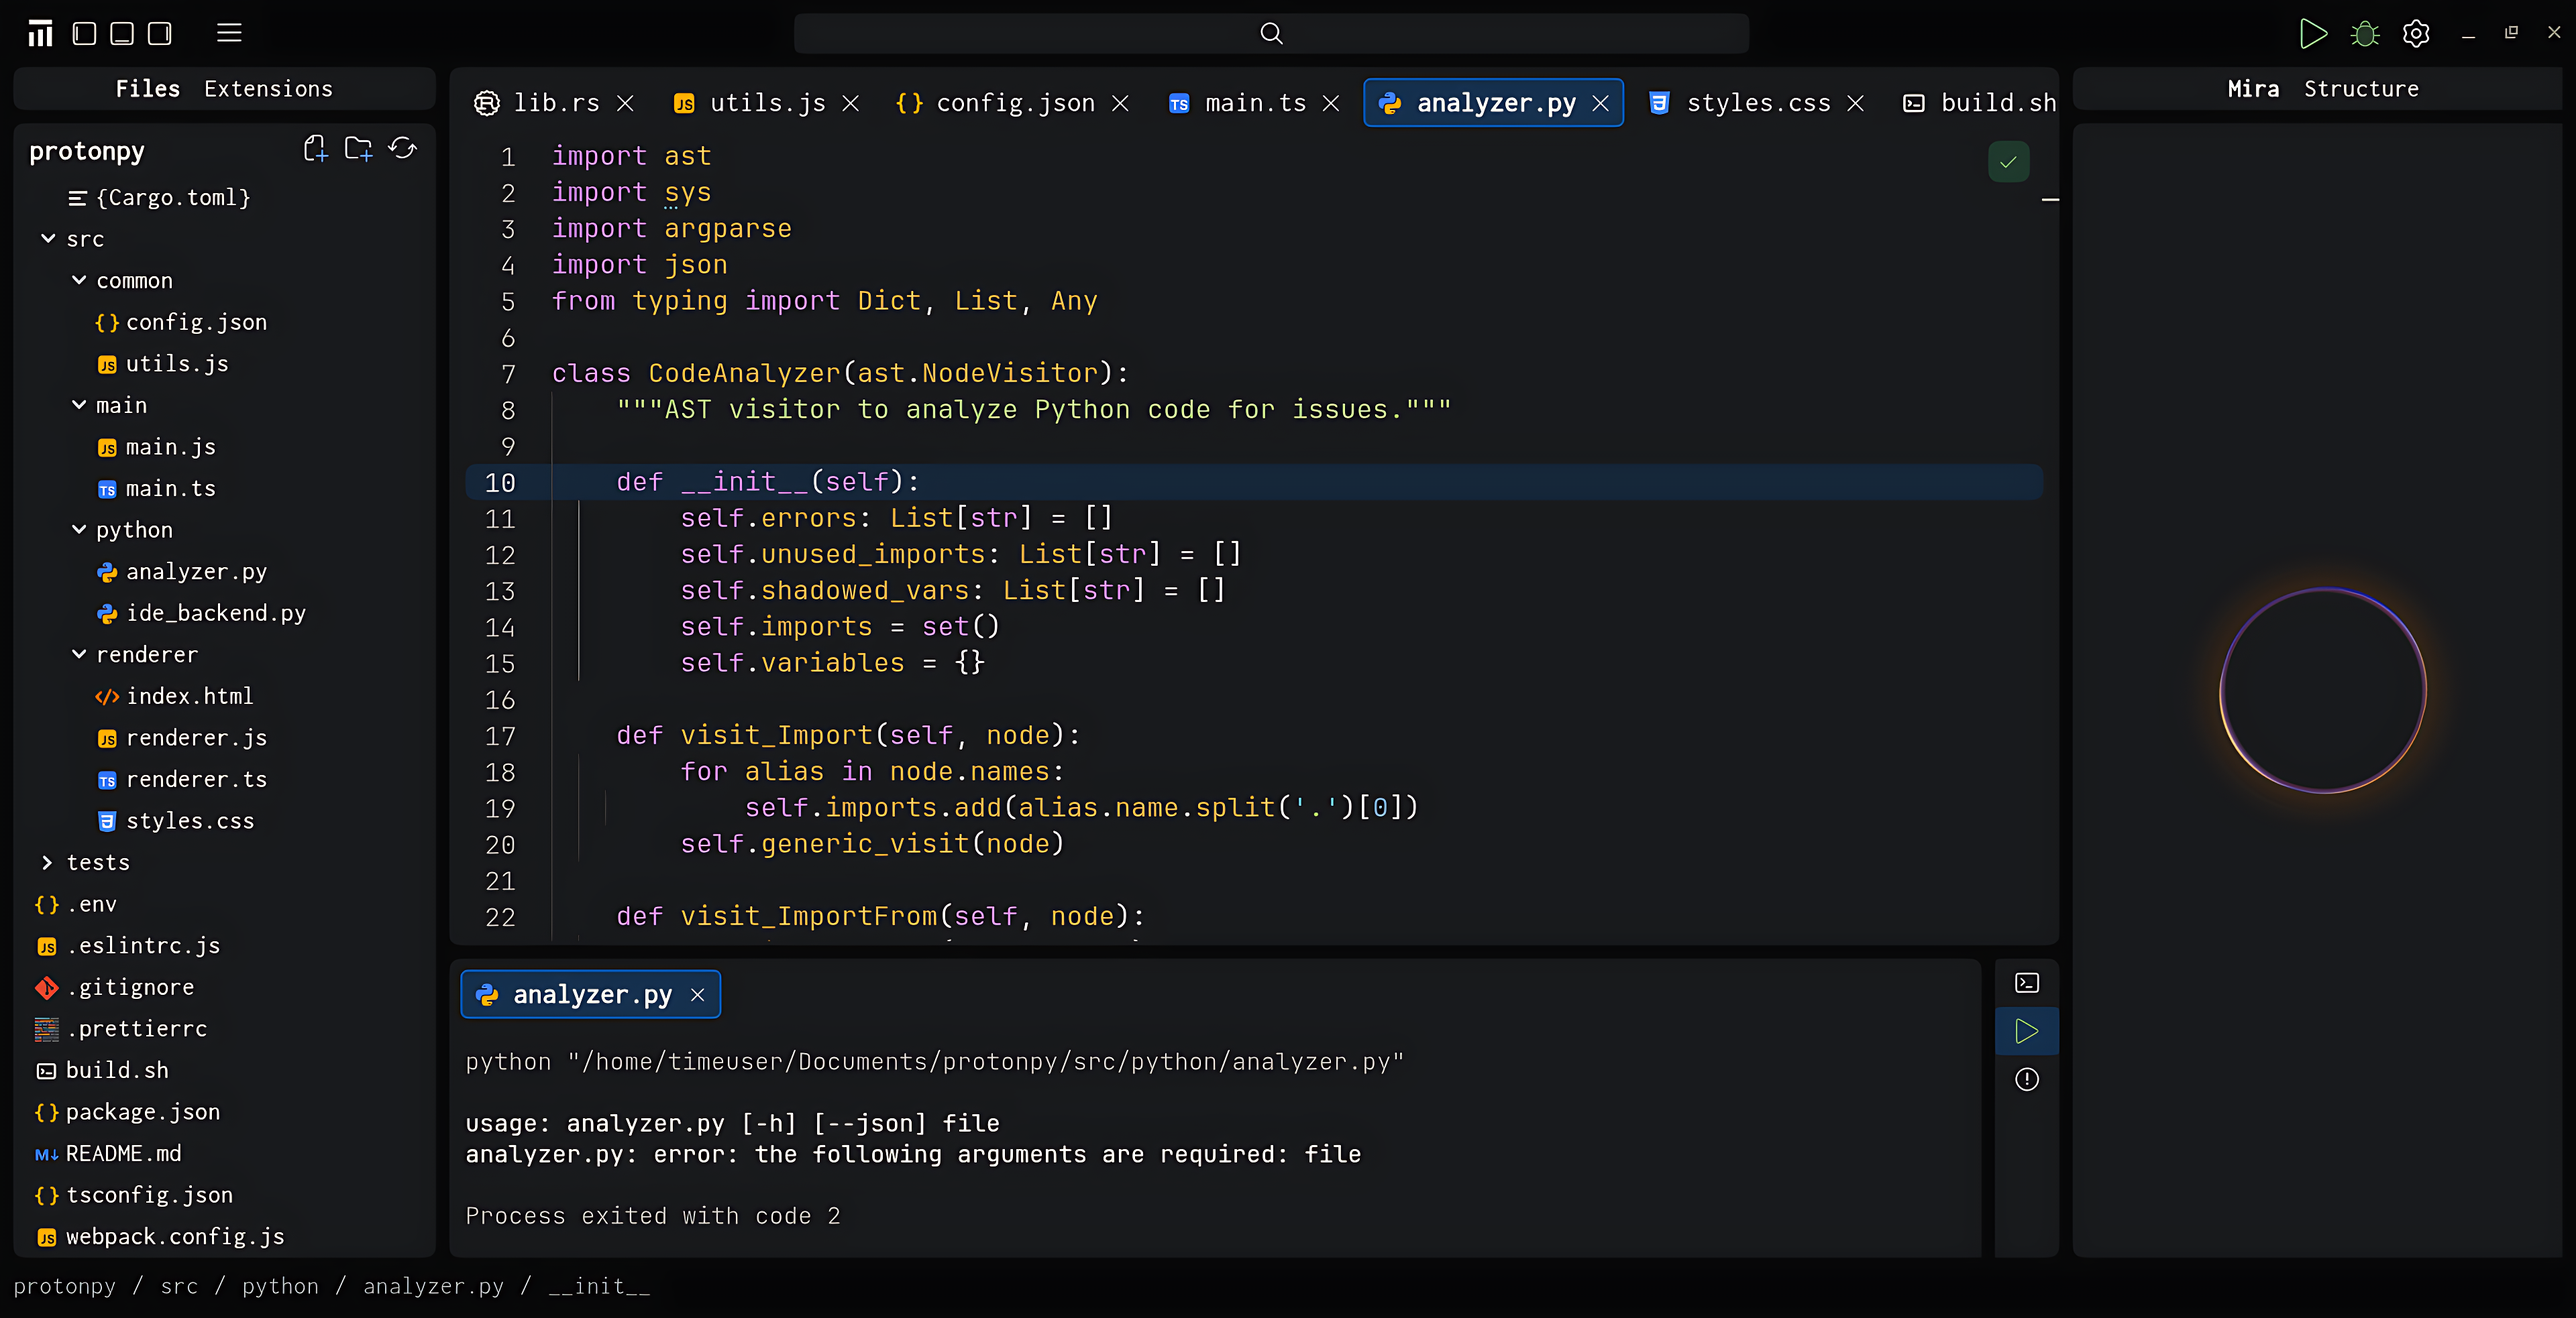
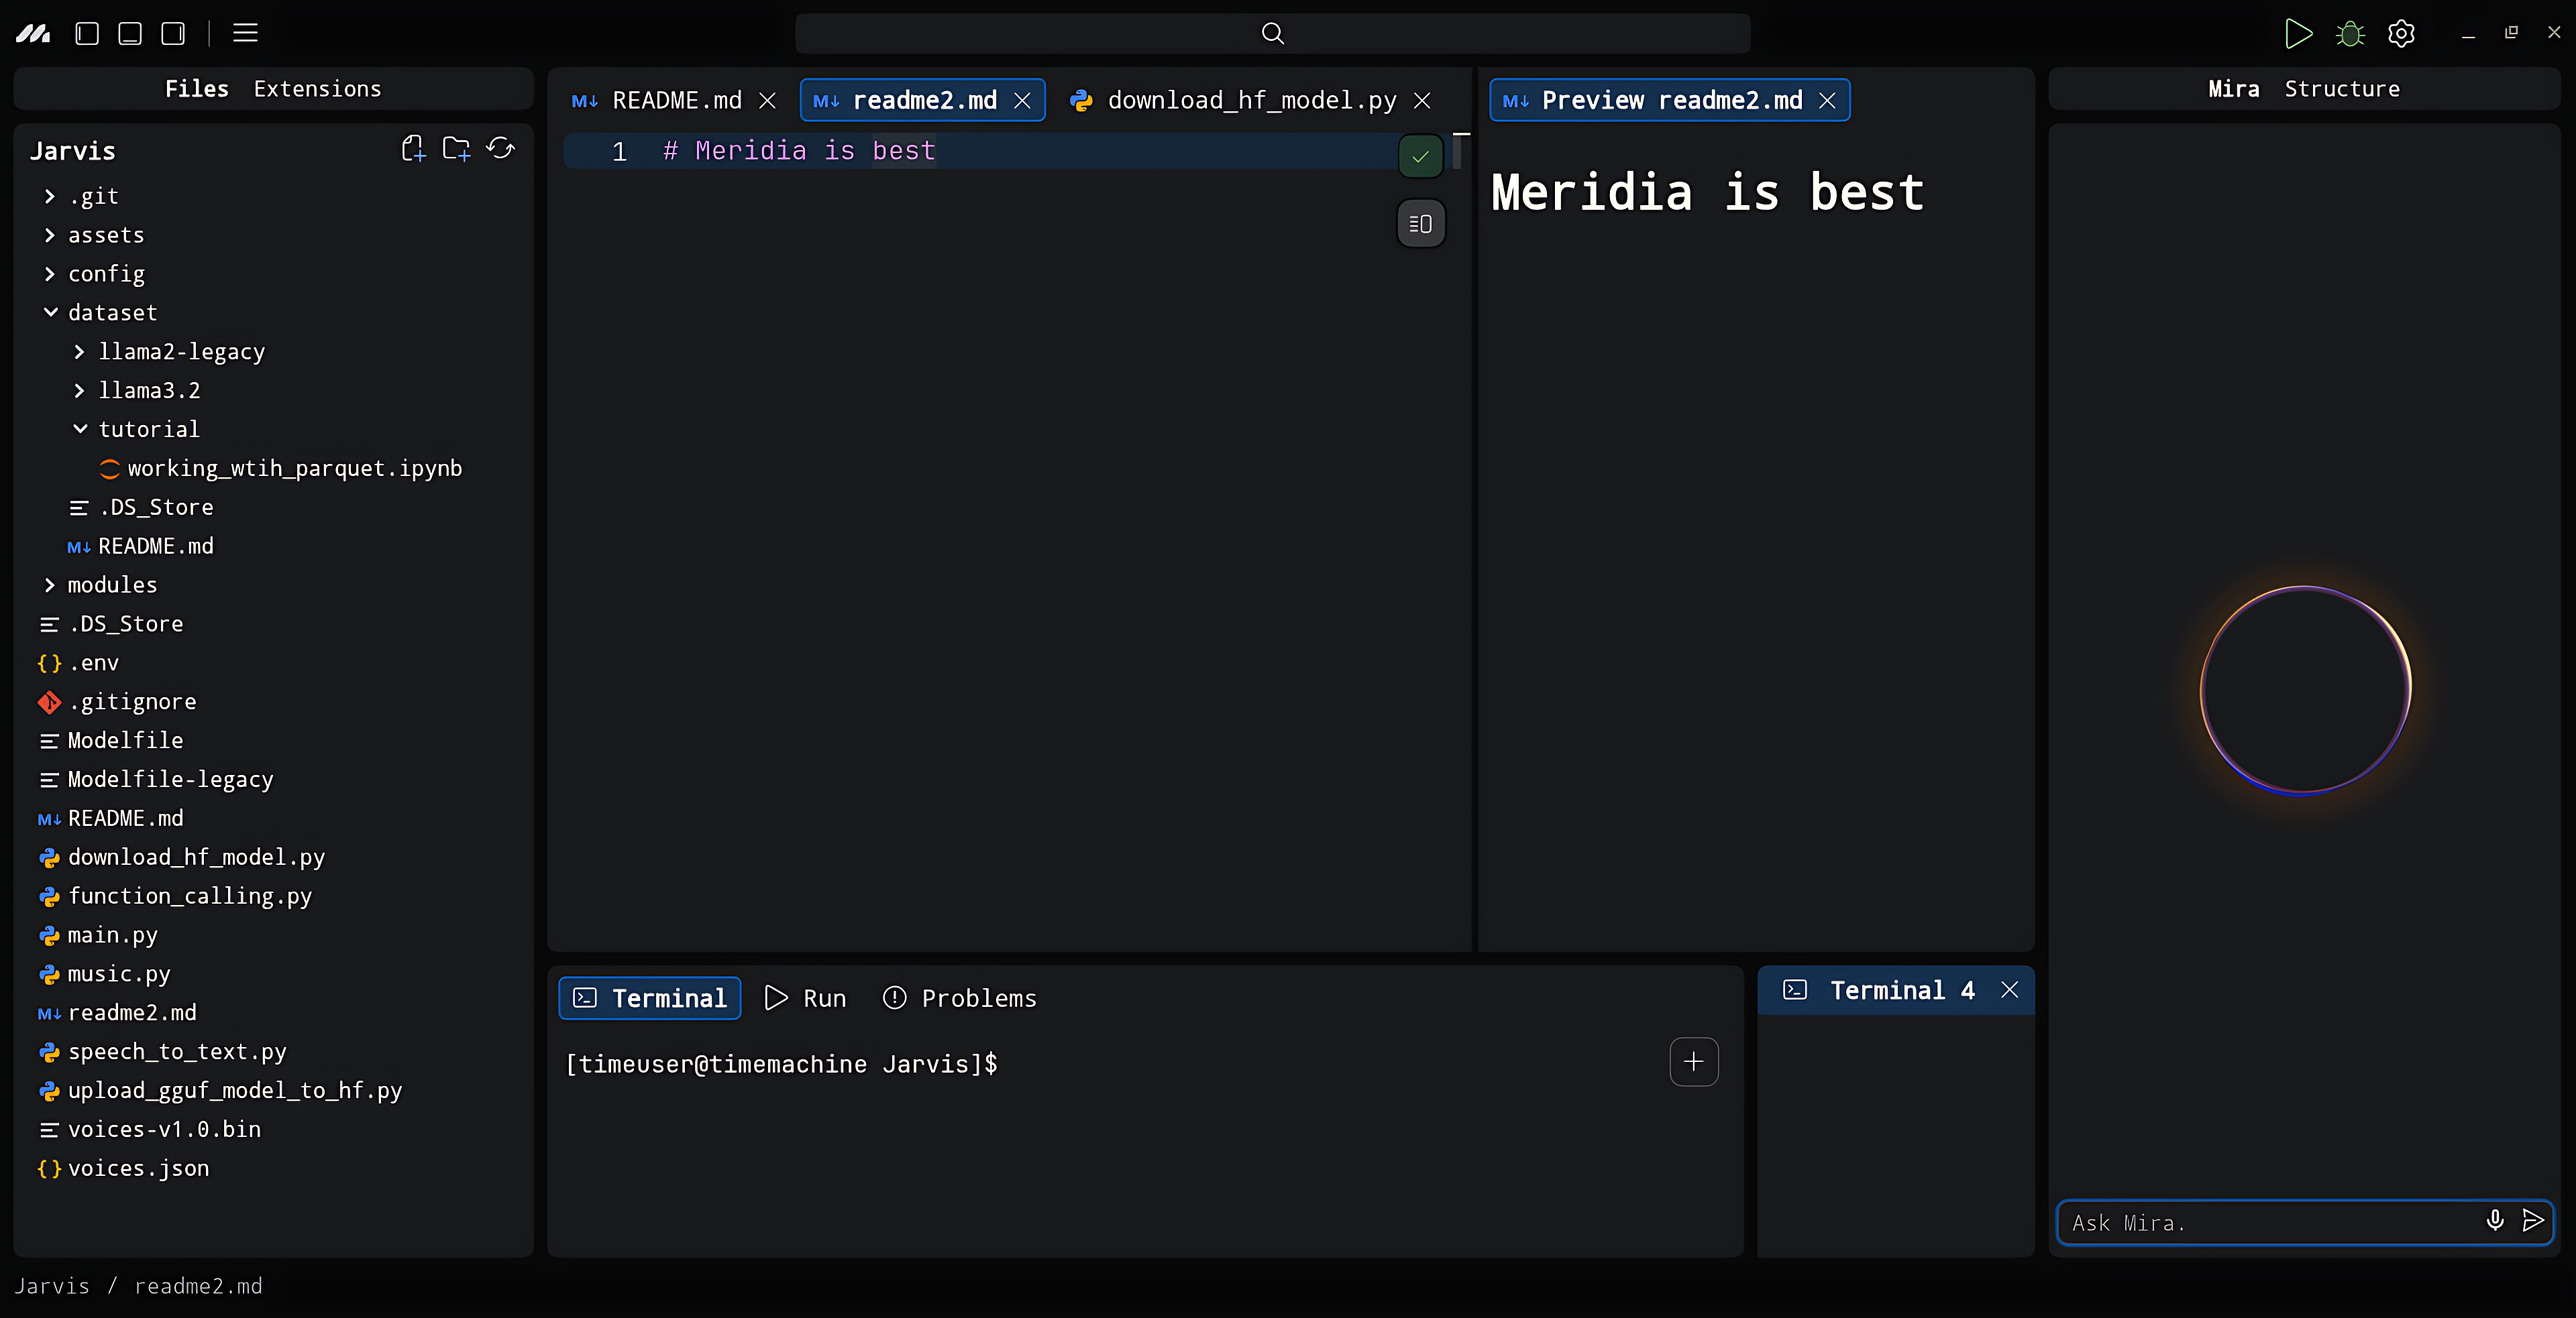
chore: update image

diff --git a/src/code/workbench/browser/styles/editor.css b/src/code/workbench/browser/styles/editor.css
@@ -17,6 +17,11 @@
 
 .code .editor .preview-area {
   height: calc(100% - 50px);
+  padding: 0 10px;
+}
+
+.code .editor .preview-area * {
+  font-family: "Inconsolata" !important;
 }
 
 .code .editor .monaco-editor *:focus {
